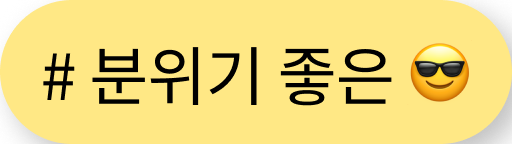
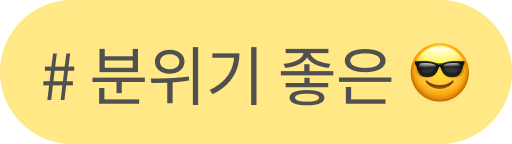
검색,마커,태그 연결 최종 완료

diff --git a/frontend/src/pages/index.js b/frontend/src/pages/index.js
@@ -17,25 +17,9 @@ import mapIcon from '../image/map-1.png';
 import closeIcon from '../image/close.png';
 import bookmarkOn from '../image/bookmark-1.png';
 import SearchBox from "../components/SearchBox";
+import TagList from "../components/TagList";
+import { displayTagImage } from "../components/TagList";
 
-// 지도 아이콘
-import mapTag1 from '../image/태그/지도_off/학생할인_no.png';
-import mapTag2 from '../image/태그/지도_off/스페셜.png';
-import mapTag3 from '../image/태그/지도_off/한식.png';
-import mapTag4 from '../image/태그/지도_off/중식.png';
-import mapTag5 from '../image/태그/지도_off/일식.png';
-import mapTag6 from '../image/태그/지도_off/양식.png';
-import mapTag7 from '../image/태그/지도_off/기타.png';
-import mapTag8 from '../image/태그/지도_off/간단한 한끼.png';
-import mapTag9 from '../image/태그/지도_off/분위기 좋은.png';
-
-import mapTagOn1 from '../image/태그/지도_on/tag_학생할인.png';
-import mapTagOn2 from '../image/태그/지도_on/tag_스페셜.png';
-import mapTagOn3 from '../image/태그/지도_on/tag_한식.png';
-import mapTagOn4 from '../image/태그/지도_on/tag_중식.png';
-import mapTagOn5 from '../image/태그/지도_on/tag_일식.png';
-import mapTagOn6 from '../image/태그/지도_on/tag_양식.png';
-import mapTagOn7 from '../image/태그/지도_on/tag_기타.png';
 import mapTagOn8 from '../image/태그/지도_on/tag_간단.png';
 import mapTagOn9 from '../image/태그/지도_on/tag_분위기.png';
 
@@ -79,12 +63,24 @@ export default function list(){
     const [keyword, setKeyword] = useState('');
     
     useEffect(() => {
-        
-       if (dispatch && dispatch !== null && dispatch !== undefined) {
-            dispatch(search_places(keyword));
-            setHeight('32%');
+        // 0-2 검색 결과 목록 -> 1 목록보기
+        if(router.query.keyword != undefined && router.query.keyword != '') {
+            setKeyword(router.query.keyword);
+            router.query.keyword = '';
         }
-    }, [keyword, router.query]);
+        if (dispatch && dispatch !== null && dispatch !== undefined) {
+            dispatch(search_places(keyword));
+           
+            if(keyword != '') {
+                setHeight('32%');
+                setCardStyle({
+                    radius: '30px 30px 0px 0px',
+                    cardVisibility: 'visible',
+                    iconVisibility: 'visible'
+                });
+            }
+        }
+    }, [keyword, router.query.keyword]);
     
     
     // 사용자 터치에 따라 카드 사이즈 변화
@@ -159,8 +155,9 @@ export default function list(){
         } else{
             setCardStyle({cardVisibility:'hidden'});
             setOpen({ bool:false,
-                Visibility:'hidden'});
-            setHeight('32%');
+                visibility:'hidden'});
+            // setHeight('0');
+            setKeyword('');
         }
     };
 
@@ -189,90 +186,18 @@ export default function list(){
         setKeyword(id);
     }
 
-    const displayTagImage = (keyword) => {
-        switch(keyword) {
-            case "학생 할인":
-                return <Image id={"학생 할인"} src={mapTagOn1} width={88} height={36}/>
-            case "스페셜":
-                return <Image id={"스페셜"} src={mapTagOn2} width={76} height={36}/>
-            case "한식":
-                return <Image id={"한식"} src={mapTagOn3} width={64} height={36}/>
-            case "중식":
-                return <Image id={"중식"} src={mapTagOn4} width={64} height={36}/>
-            case "일식":
-                return <Image id={"일식"} src={mapTagOn5} width={64} height={36}/>
-            case "양식":
-                return <Image id={"양식"} src={mapTagOn6} width={64} height={36}/>
-            case "기타":
-                return <Image id={"기타"} src={mapTagOn7} width={64} height={36}/>
-            case "간단한 한 끼":
-                return <Image id={"간단한 한 끼"} src={mapTag8} width={132} height={36}/>
-            case "분위기 좋은":
-                return <Image id={"분위기 좋은"} src={mapTag9} width={128} height={36}/>
-            default:
-                return null;
-        }
-    }
-
     return(
     <ThemeProvider theme={theme}>
       <CssBaseline />
        <Layout>
-            <div style={{ position: 'relative', width:'100%', height:'100%'}}>  
+            <div style={{ position: 'relative', height:'100%'}}>  
             <Container style={{position:'absolute', zIndex:'2'}}>
                 <SearchBox openID={openID}/>   
             </Container> 
             <Map latitude={37.58622450673971} longitude={126.99709024757782} places={place} />
 
             {/* 태그 목록 */}
-            <Grid container style={{  position: 'absolute', top: '103px', zIndex: '1', display: 'flex', height: '36px' }}
-                onClick={(e) => {
-                    e.preventDefault();
-                    let target = e.target;
-                    while (target && target.tagName !== 'IMG') {
-                        target = target.parentNode
-                    }
-                    if (target) {
-                        onTagClick(target.id);
-                    }
-                    }}>
-                    <Grid item >
-                        { (keyword == "학생 할인") ? <Image id={"학생 할인"} src={mapTagOn1} width={88} height={36}/>
-                        : <Image id={"학생 할인"} src={mapTag1} width={88} height={36}/> }
-                    </Grid>
-                    <Grid item sx={{pl: '5px'}}>
-                        { (keyword == "스페셜") ? <Image id={"스페셜"} src={mapTagOn2} width={76} height={36}/>
-                        : <Image id={"스페셜"} src={mapTag2} width={76} height={36}/>}
-                    </Grid>
-                    <Grid item sx={{pl: '5px'}}>
-                        { (keyword == "한식") ? <Image id={"한식"} src={mapTagOn3} width={64} height={36}/>
-                        : <Image id={"한식"} src={mapTag3} width={64} height={36}/> }
-                    </Grid>
-                    <Grid item sx={{pl: '5px'}}>
-                        { (keyword == "중식") ? <Image id={"중식"} src={mapTagOn4} width={64} height={36}/>
-                        : <Image id={"중식"} src={mapTag4} width={64} height={36}/> }
-                    </Grid>
-                    <Grid item sx={{pl: '5px'}}>
-                        { (keyword == "일식") ? <Image id={"일식"} src={mapTagOn5} width={64} height={36}/>
-                        : <Image id={"일식"} src={mapTag5} width={64} height={36}/> }
-                    </Grid>
-                    <Grid item sx={{pl: '5px'}}>
-                        { (keyword == "양식") ? <Image id={"양식"} src={mapTagOn6} width={64} height={36}/>
-                        : <Image id={"양식"} src={mapTag6} width={64} height={36}/> }
-                    </Grid>
-                    <Grid item sx={{pl: '5px'}}>
-                        { (keyword == "기타") ? <Image id={"기타"} src={mapTagOn7} width={64} height={36}/>
-                        : <Image id={"기타"} src={mapTag7} width={64} height={36}/> }
-                    </Grid>
-                    <Grid item sx={{pl: '5px'}}>
-                        { (keyword == "간단한 한 끼") ? <Image id={"간단한 한 끼"} src={mapTagOn8} width={132} height={36}/>
-                        : <Image id={"간단한 한 끼"} src={mapTag8} width={132} height={36}/> }
-                    </Grid>
-                    <Grid item sx={{pl: '5px'}}>
-                        { (keyword == "분위기 좋은") ? <Image id={"분위기 좋은"} src={mapTagOn9} width={128} height={36}/>
-                        : <Image id={"분위기 좋은"} src={mapTag9} width={128} height={36} /> }
-                    </Grid>
-            </Grid>
+            <TagList keyword={keyword} onTagClick={onTagClick} />
             
             <Slide direction="up" in={open.bool} timeout={1} >
                 <Container fixed style={{padding: '0px 16px 0px 0px',}}>

diff --git a/frontend/src/components/TagList.js b/frontend/src/components/TagList.js
@@ -1,0 +1,109 @@
+import theme from "../theme/theme";
+import Image from 'next/image';
+import {Grid, CssBaseline, ThemeProvider} from '@mui/material';
+
+// 지도 아이콘
+import mapTag1 from '../image/태그/지도_off/학생할인.png';
+import mapTag2 from '../image/태그/지도_off/스페셜.png';
+import mapTag3 from '../image/태그/지도_off/한식.png';
+import mapTag4 from '../image/태그/지도_off/중식.png';
+import mapTag5 from '../image/태그/지도_off/일식.png';
+import mapTag6 from '../image/태그/지도_off/양식.png';
+import mapTag7 from '../image/태그/지도_off/기타.png';
+import mapTag8 from '../image/태그/지도_off/간단한_한끼.png';
+import mapTag9 from '../image/태그/지도_off/분위기_좋은.png';
+
+import mapTagOn1 from '../image/태그/지도_on/tag_학생할인.png';
+import mapTagOn2 from '../image/태그/지도_on/tag_스페셜.png';
+import mapTagOn3 from '../image/태그/지도_on/tag_한식.png';
+import mapTagOn4 from '../image/태그/지도_on/tag_중식.png';
+import mapTagOn5 from '../image/태그/지도_on/tag_일식.png';
+import mapTagOn6 from '../image/태그/지도_on/tag_양식.png';
+import mapTagOn7 from '../image/태그/지도_on/tag_기타.png';
+import mapTagOn8 from '../image/태그/지도_on/tag_간단.png';
+import mapTagOn9 from '../image/태그/지도_on/tag_분위기.png';
+
+export const displayTagImage = (keyword) => {
+    switch(keyword) {
+        case "학생 할인":
+            return <Image id={"학생 할인"} src={mapTagOn1} width={88} height={36}/>
+        case "스페셜":
+            return <Image id={"스페셜"} src={mapTagOn2} width={76} height={36}/>
+        case "한식":
+            return <Image id={"한식"} src={mapTagOn3} width={64} height={36}/>
+        case "중식":
+            return <Image id={"중식"} src={mapTagOn4} width={64} height={36}/>
+        case "일식":
+            return <Image id={"일식"} src={mapTagOn5} width={64} height={36}/>
+        case "양식":
+            return <Image id={"양식"} src={mapTagOn6} width={64} height={36}/>
+        case "기타":
+            return <Image id={"기타"} src={mapTagOn7} width={64} height={36}/>
+        case "간단한 한 끼":
+            return <Image id={"간단한 한 끼"} src={mapTagOn8} width={132} height={36}/>
+        case "분위기 좋은":
+            return <Image id={"분위기 좋은"} src={mapTagOn9} width={128} height={36}/>
+        default:
+            return null;
+    }
+}
+
+const TagList = ({keyword, onTagClick}) => {
+
+    return (
+        <ThemeProvider theme={theme}>
+            <CssBaseline/>
+            {/* 태그 목록 */}
+            <Grid container style={{  position: 'absolute', top: '103px', zIndex: '1', height: '36px'}}
+                onClick={(e) => {
+                    e.preventDefault();
+                    let target = e.target;
+                    while (target && target.tagName !== 'IMG') {
+                        target = target.parentNode
+                    }
+                    if (target) {
+                        onTagClick(target.id);
+                    }
+                    }}>
+                    <Grid item sx={{filter: "drop-shadow(3px 3px 8px rgba(0,0,0,0.25))" }}>
+                        { (keyword == "학생 할인") ? <Image id={"학생 할인"} src={mapTagOn1} width={88} height={36}/>
+                        : <Image id={"학생 할인"} src={mapTag1} width={88} height={36}/> }
+                    </Grid>
+                    <Grid item sx={{pl: '5px', filter: "drop-shadow(3px 3px 8px rgba(0,0,0,0.25))" }}>
+                        { (keyword == "스페셜") ? <Image id={"스페셜"} src={mapTagOn2} width={76} height={36}/>
+                        : <Image id={"스페셜"} src={mapTag2} width={76} height={36}/>}
+                    </Grid>
+                    <Grid item sx={{pl: '5px', filter: "drop-shadow(3px 3px 8px rgba(0,0,0,0.25))" }}>
+                        { (keyword == "한식") ? <Image id={"한식"} src={mapTagOn3} width={64} height={36}/>
+                        : <Image id={"한식"} src={mapTag3} width={64} height={36}/> }
+                    </Grid>
+                    <Grid item sx={{pl: '5px', filter: "drop-shadow(3px 3px 8px rgba(0,0,0,0.25))" }}>
+                        { (keyword == "중식") ? <Image id={"중식"} src={mapTagOn4} width={64} height={36}/>
+                        : <Image id={"중식"} src={mapTag4} width={64} height={36}/> }
+                    </Grid>
+                    <Grid item sx={{pl: '5px', filter: "drop-shadow(3px 3px 8px rgba(0,0,0,0.25))" }}>
+                        { (keyword == "일식") ? <Image id={"일식"} src={mapTagOn5} width={64} height={36}/>
+                        : <Image id={"일식"} src={mapTag5} width={64} height={36}/> }
+                    </Grid>
+                    <Grid item sx={{pl: '5px', filter: "drop-shadow(3px 3px 8px rgba(0,0,0,0.25))" }}>
+                        { (keyword == "양식") ? <Image id={"양식"} src={mapTagOn6} width={64} height={36}/>
+                        : <Image id={"양식"} src={mapTag6} width={64} height={36}/> }
+                    </Grid>
+                    <Grid item sx={{pl: '5px', filter: "drop-shadow(3px 3px 8px rgba(0,0,0,0.25))" }}>
+                        { (keyword == "기타") ? <Image id={"기타"} src={mapTagOn7} width={64} height={36}/>
+                        : <Image id={"기타"} src={mapTag7} width={64} height={36}/> }
+                    </Grid>
+                    <Grid item sx={{pl: '5px', filter: "drop-shadow(3px 3px 8px rgba(0,0,0,0.25))" }}>
+                        { (keyword == "간단한 한 끼") ? <Image id={"간단한 한 끼"} src={mapTagOn8} width={132} height={36}/>
+                        : <Image id={"간단한 한 끼"} src={mapTag8} width={132} height={36}/> }
+                    </Grid>
+                    <Grid item sx={{pl: '5px', filter: "drop-shadow(3px 3px 8px rgba(0,0,0,0.25))" }}>
+                        { (keyword == "분위기 좋은") ? <Image id={"분위기 좋은"} src={mapTagOn9} width={128} height={36}/>
+                        : <Image id={"분위기 좋은"} src={mapTag9} width={128} height={36} /> }
+                    </Grid>
+            </Grid>
+        </ThemeProvider>
+    )
+}
+
+export default TagList;

diff --git a/frontend/src/pages/place.js b/frontend/src/pages/place.js
@@ -18,6 +18,8 @@ import back from '../image/arrow_back_ios.png'
 import mapTagOn8 from '../image/태그/지도_on/tag_간단.png';
 import mapTagOn9 from '../image/태그/지도_on/tag_분위기.png';
 import ReviewStar from '../components/ReviewStar'
+import TagList from "../components/TagList";
+import SearchBox from "../components/SearchBox";
 
 const PlacePage = () => {
     
@@ -150,6 +152,16 @@ const PlacePage = () => {
     const addComma = (num) => {
         return num.toString().replace(/\B(?=(\d{3})+(?!\d))/g, ",");
     }
+
+    const {openID} = router.query;
+
+    // 태그 검색
+    const [keyword, setKeyword] = useState('');
+
+    const onTagClick = (id) => {
+        setKeyword(id);
+        router.push(`/?keyword=${id}`);
+    }
     
     return (
         <ThemeProvider theme={theme}>
@@ -159,8 +171,12 @@ const PlacePage = () => {
                 content='Place page'
             >           
                 <div style={{ position: 'relative', width:'100%', height:'100%'}}>  
+                <Container style={{position:'absolute', zIndex:'2'}}>
+                    <SearchBox openID={openID}/>   
+                </Container> 
                 <Map latitude={37.58622450673971} longitude={126.99709024757782} places={places} selectedId={id}/>                  
-
+                {/* 태그 목록 */}
+                <TagList keyword={keyword} onTagClick={onTagClick} />
                     {/* 카드 전체화면 채울 시, 헤더영역 */}
                 <Slide direction="up" in={open.bool} timeout={1} >
                 <Container fixed style={{padding: '0px 16px 0px 0px', overflow: "hidden"}}>

diff --git a/frontend/src/pages/searchList.js b/frontend/src/pages/searchList.js
@@ -22,7 +22,7 @@ export default function searchList(){
     //user의 input값 받아오기
     const { keyword } = router.query;
 
-    const [value, setValue] = useState('');
+    const [value, setValue] = useState(keyword);
     const [passValue, setPassValue] = useState(keyword);
 
 
@@ -53,7 +53,14 @@ export default function searchList(){
     //아이콘 클릭시
     const handleIconOnclick = (event) =>{
         if(event.target.id == 'map' ){
-            router.push(`/place?id=${place[0].id}`);
+            // 0-2 [검색 결과 목록] -> 2 [식당 선택]으로 이동
+            // router.push(`/place?id=${place[0].id}`);
+            // 0-2 [검색 결과 목록] -> 1 [목록보기]로 이동
+            router.push(`/?keyword=${passValue}`);
+            // router.push({
+            //     pathname: '/',
+            //     query: passValue
+            // });
         } else{
             alert(event.target.id + ' ' + place[0].name);
             router.push('/');
@@ -70,7 +77,6 @@ export default function searchList(){
         if(e.keyCode === 13){
             setPassValue(value);
             dispatch(search_places(value));
-            setValue('');
         }
     }
 
